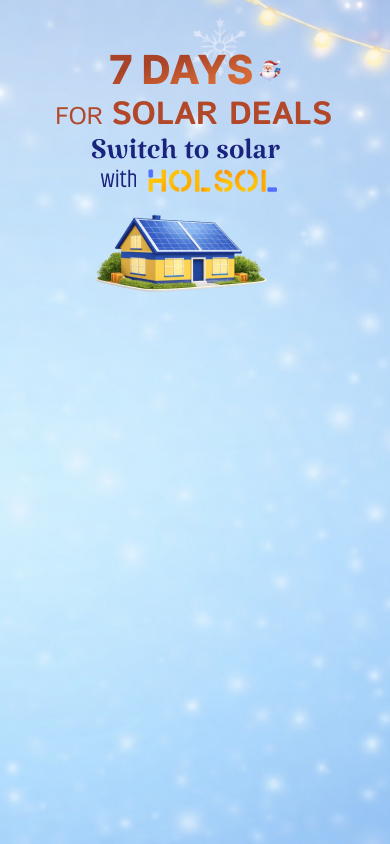
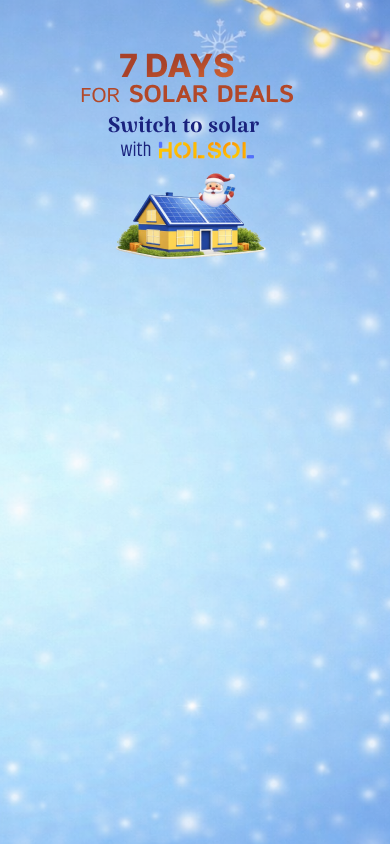
`Update App component background image and styles`

diff --git a/src/App.jsx b/src/App.jsx
@@ -31,14 +31,14 @@ function App() {
     //   style={{ backgroundImage: `url(${mgmobile})` }}
     // >
     <div
-  className="
+      className="
     min-h-screen flex items-center justify-center
     px-4 py-10 md:py-0
     bg-cover bg-center
-    bg-[url('./assets/Image/mobilenew.png')]
+    bg-[url('./assets/Image/mobile.png')]
     md:bg-[url('./assets/Image/bgh.png')]
   "
->
+    >
       <div className="max-w-6xl w-full grid md:grid-cols-2 md:gap-10 items-center">
         <div className="col-span-1">
 
